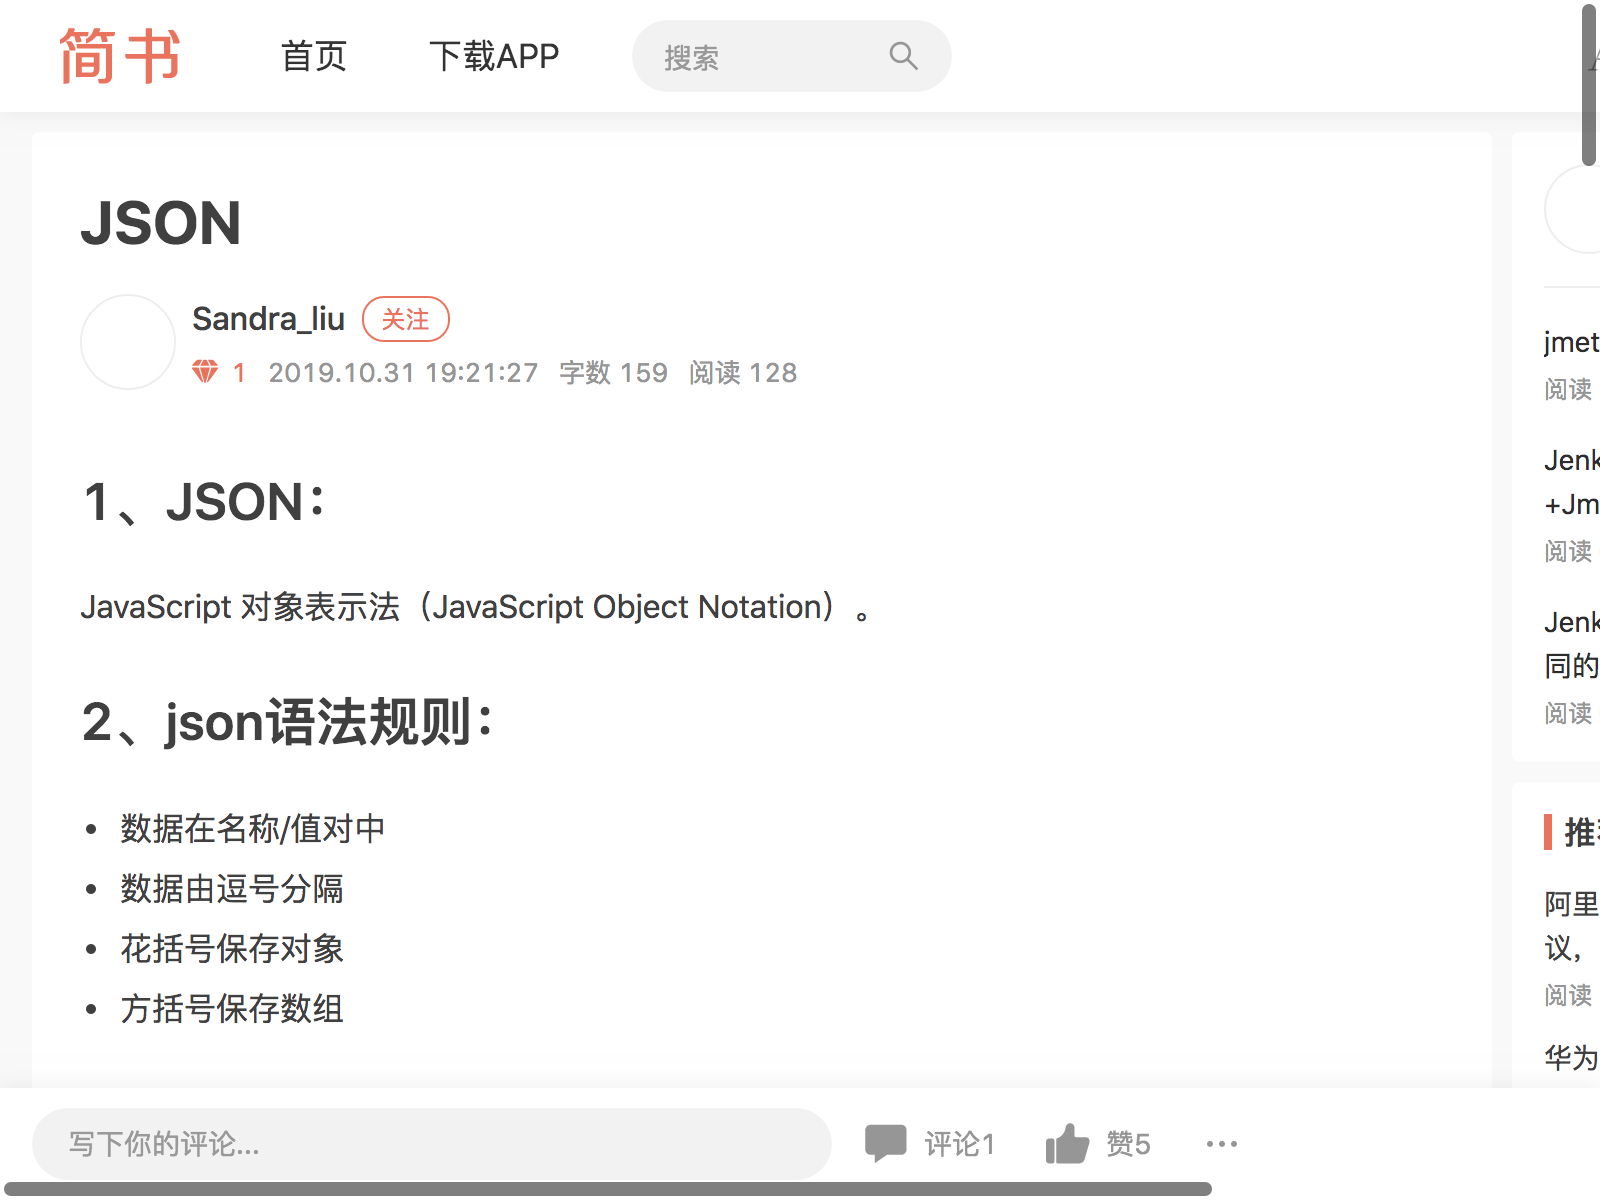
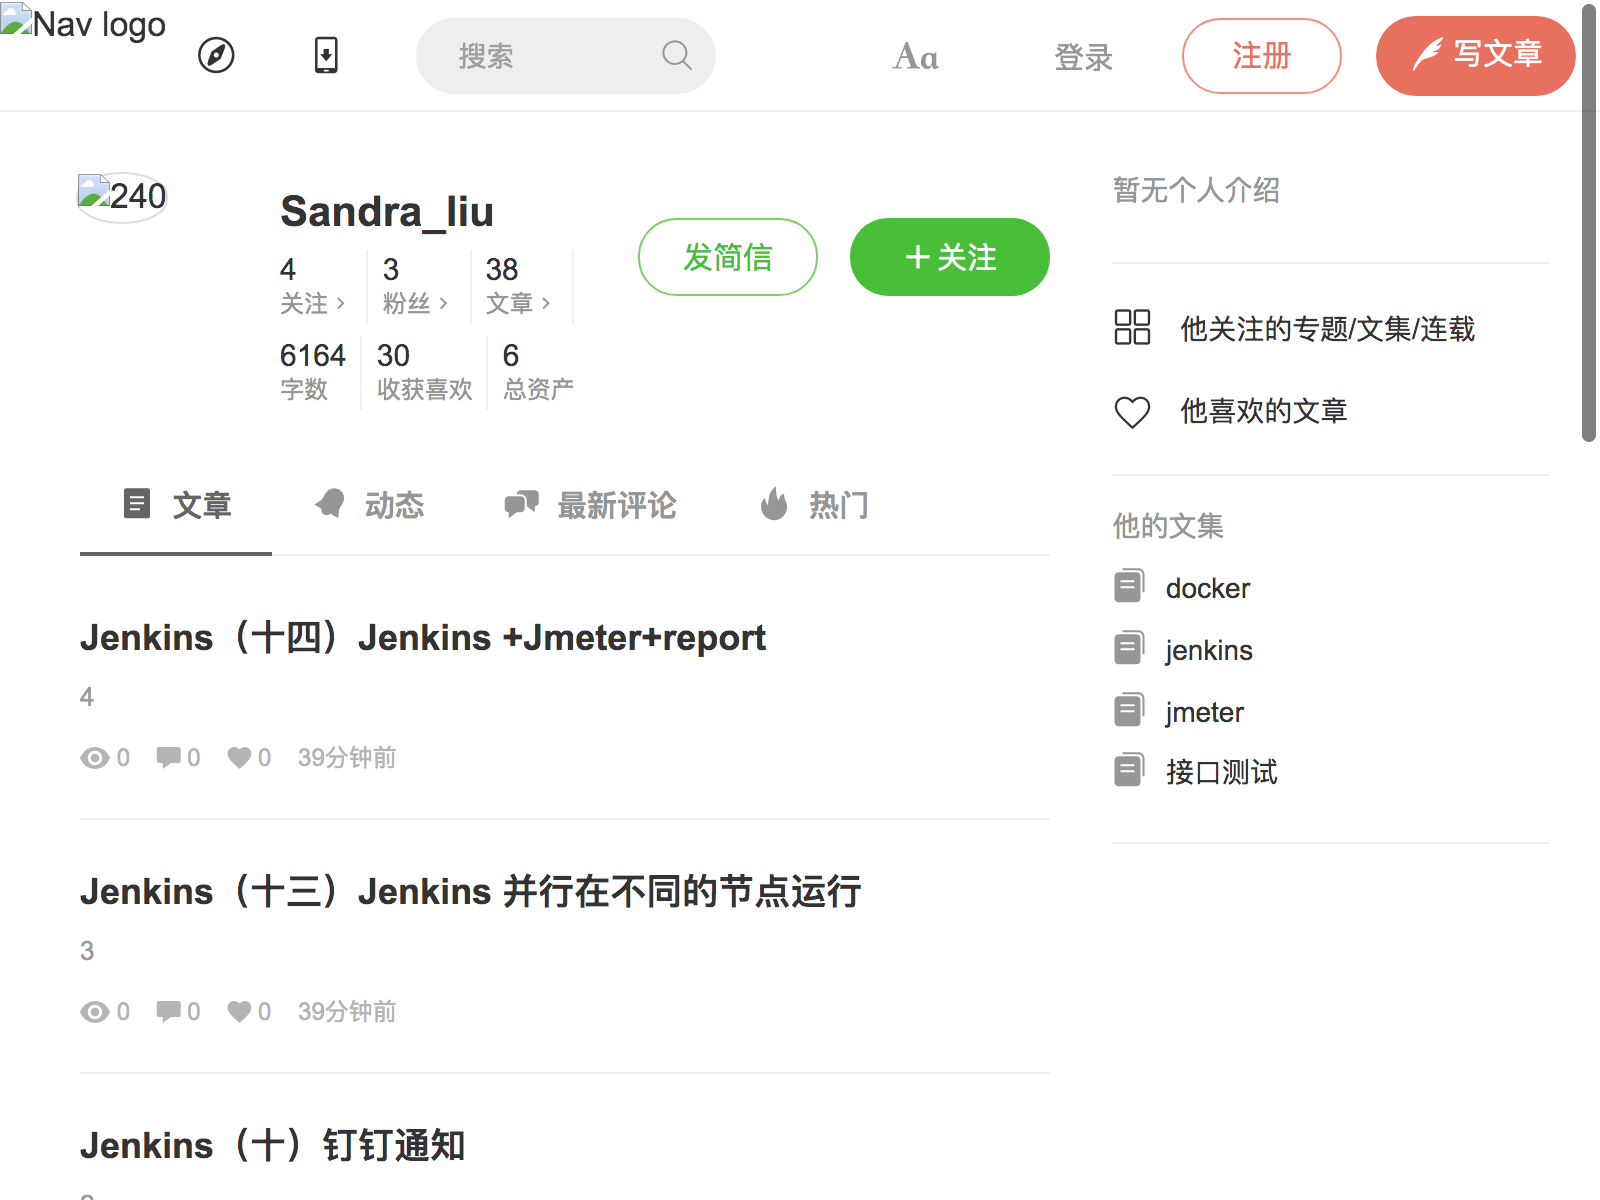
upd

diff --git a/testcase/test_login_origin.py b/testcase/test_login_origin.py
@@ -25,8 +25,9 @@ class TestTsg:
         self.driver.implicitly_wait(10)
         # self.driver.get("https://fxm5547.baobaobooks.com/")
         # assert "小明fxm5547" in self.driver.title
-        self.driver.get("https://www.jianshu.com/p/c16498b6b1c1")
+        self.driver.get("https://www.jianshu.com/u/0a236a96b84c")
         sleep(5)
+        assert "小明fxm5547" in self.driver.title
         self.driver.get_screenshot_as_file('firstpage.png')
 
     def teardown(self):
